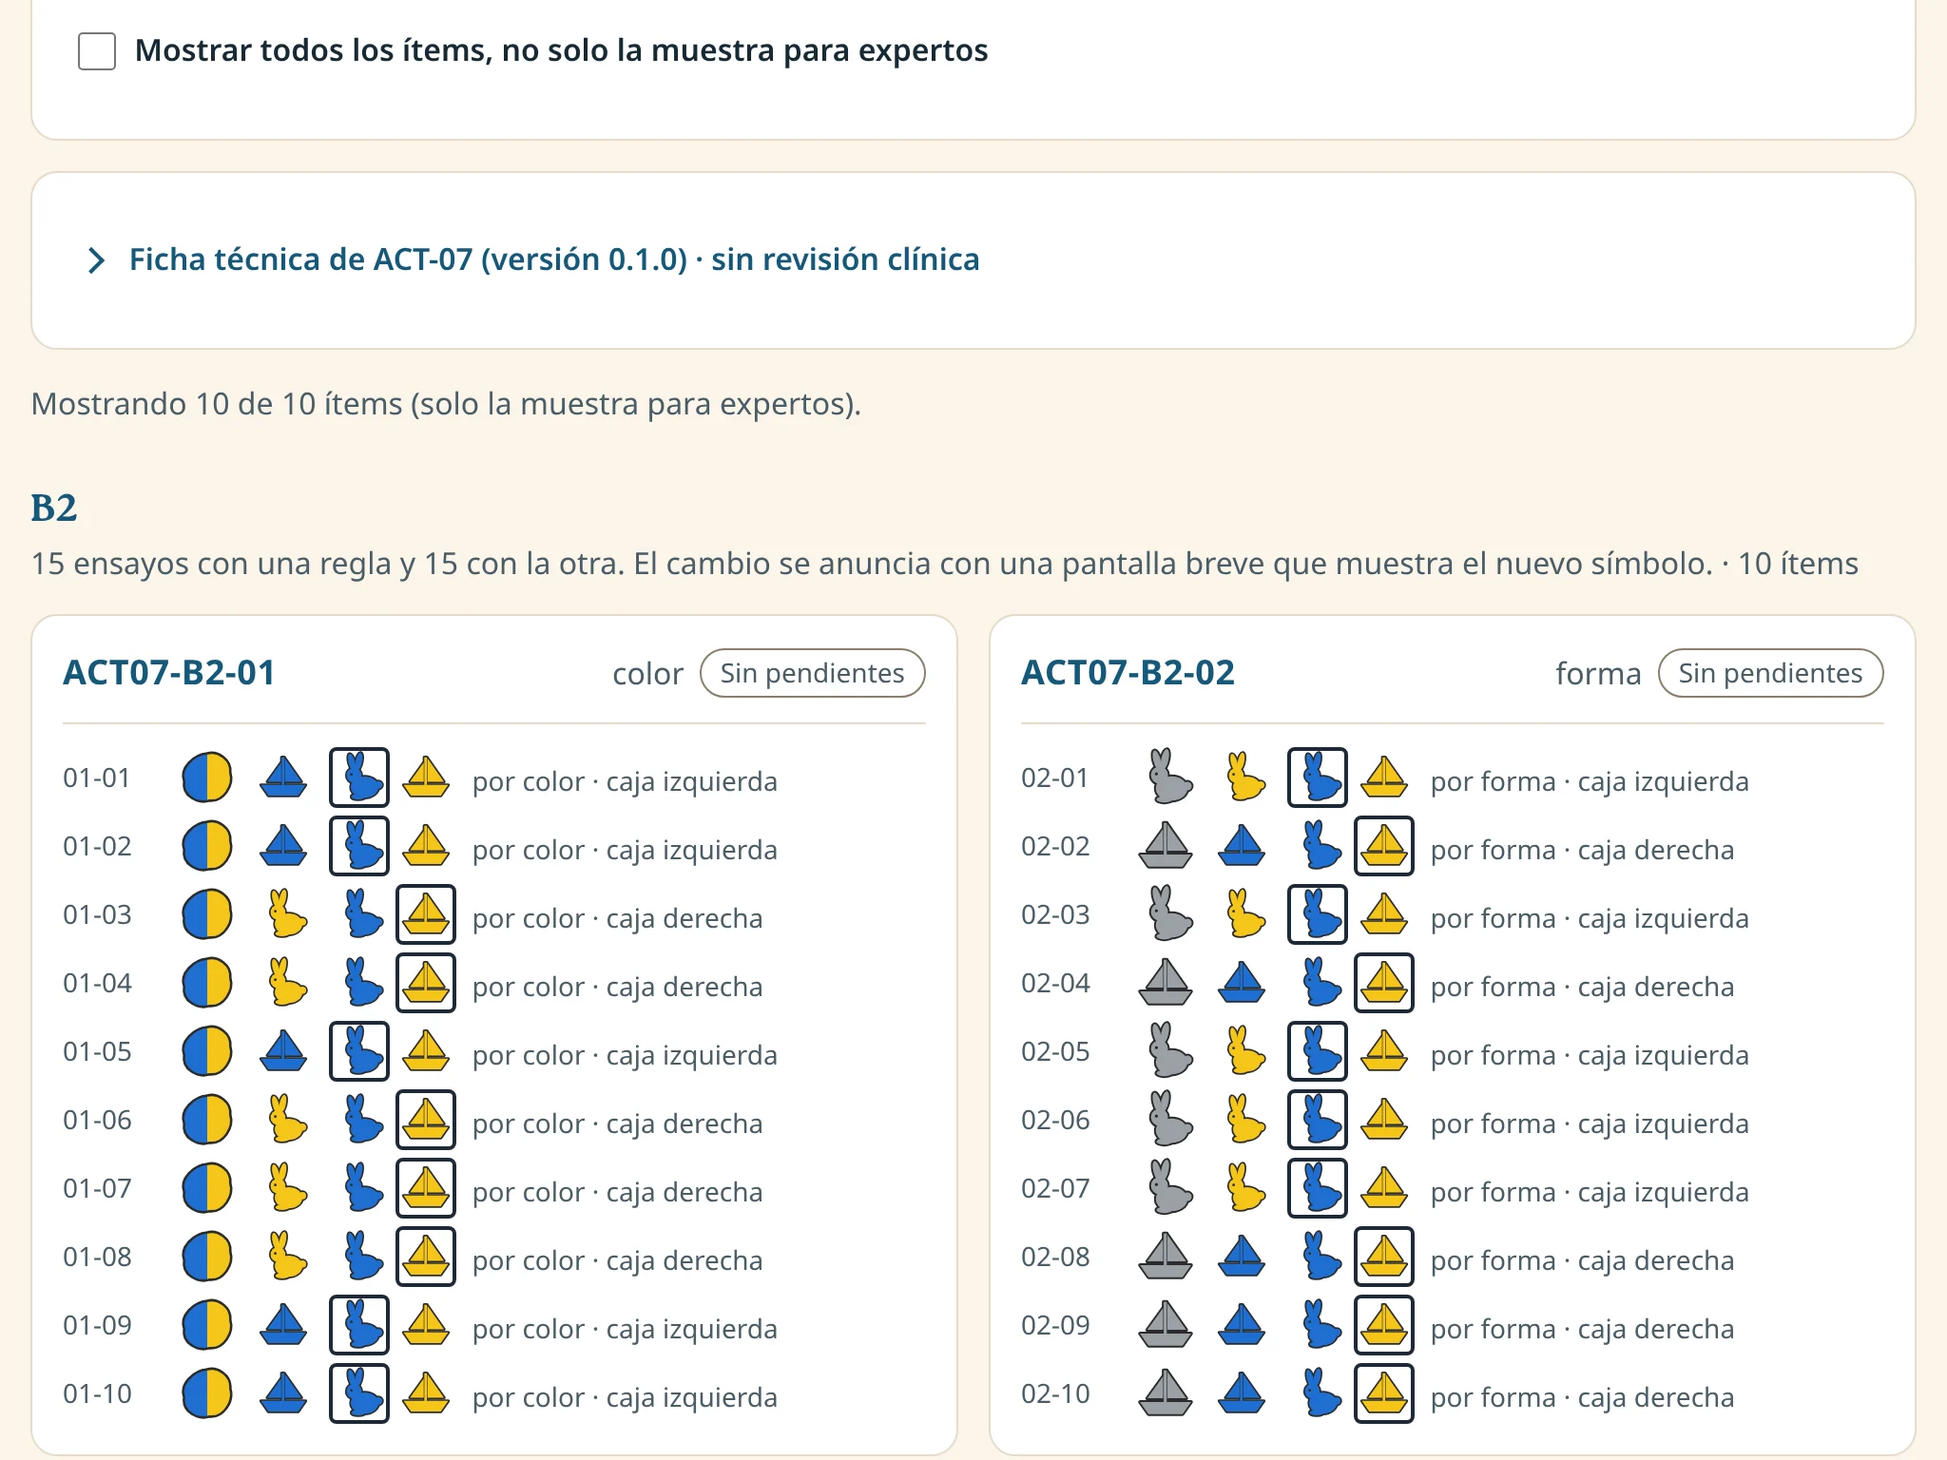
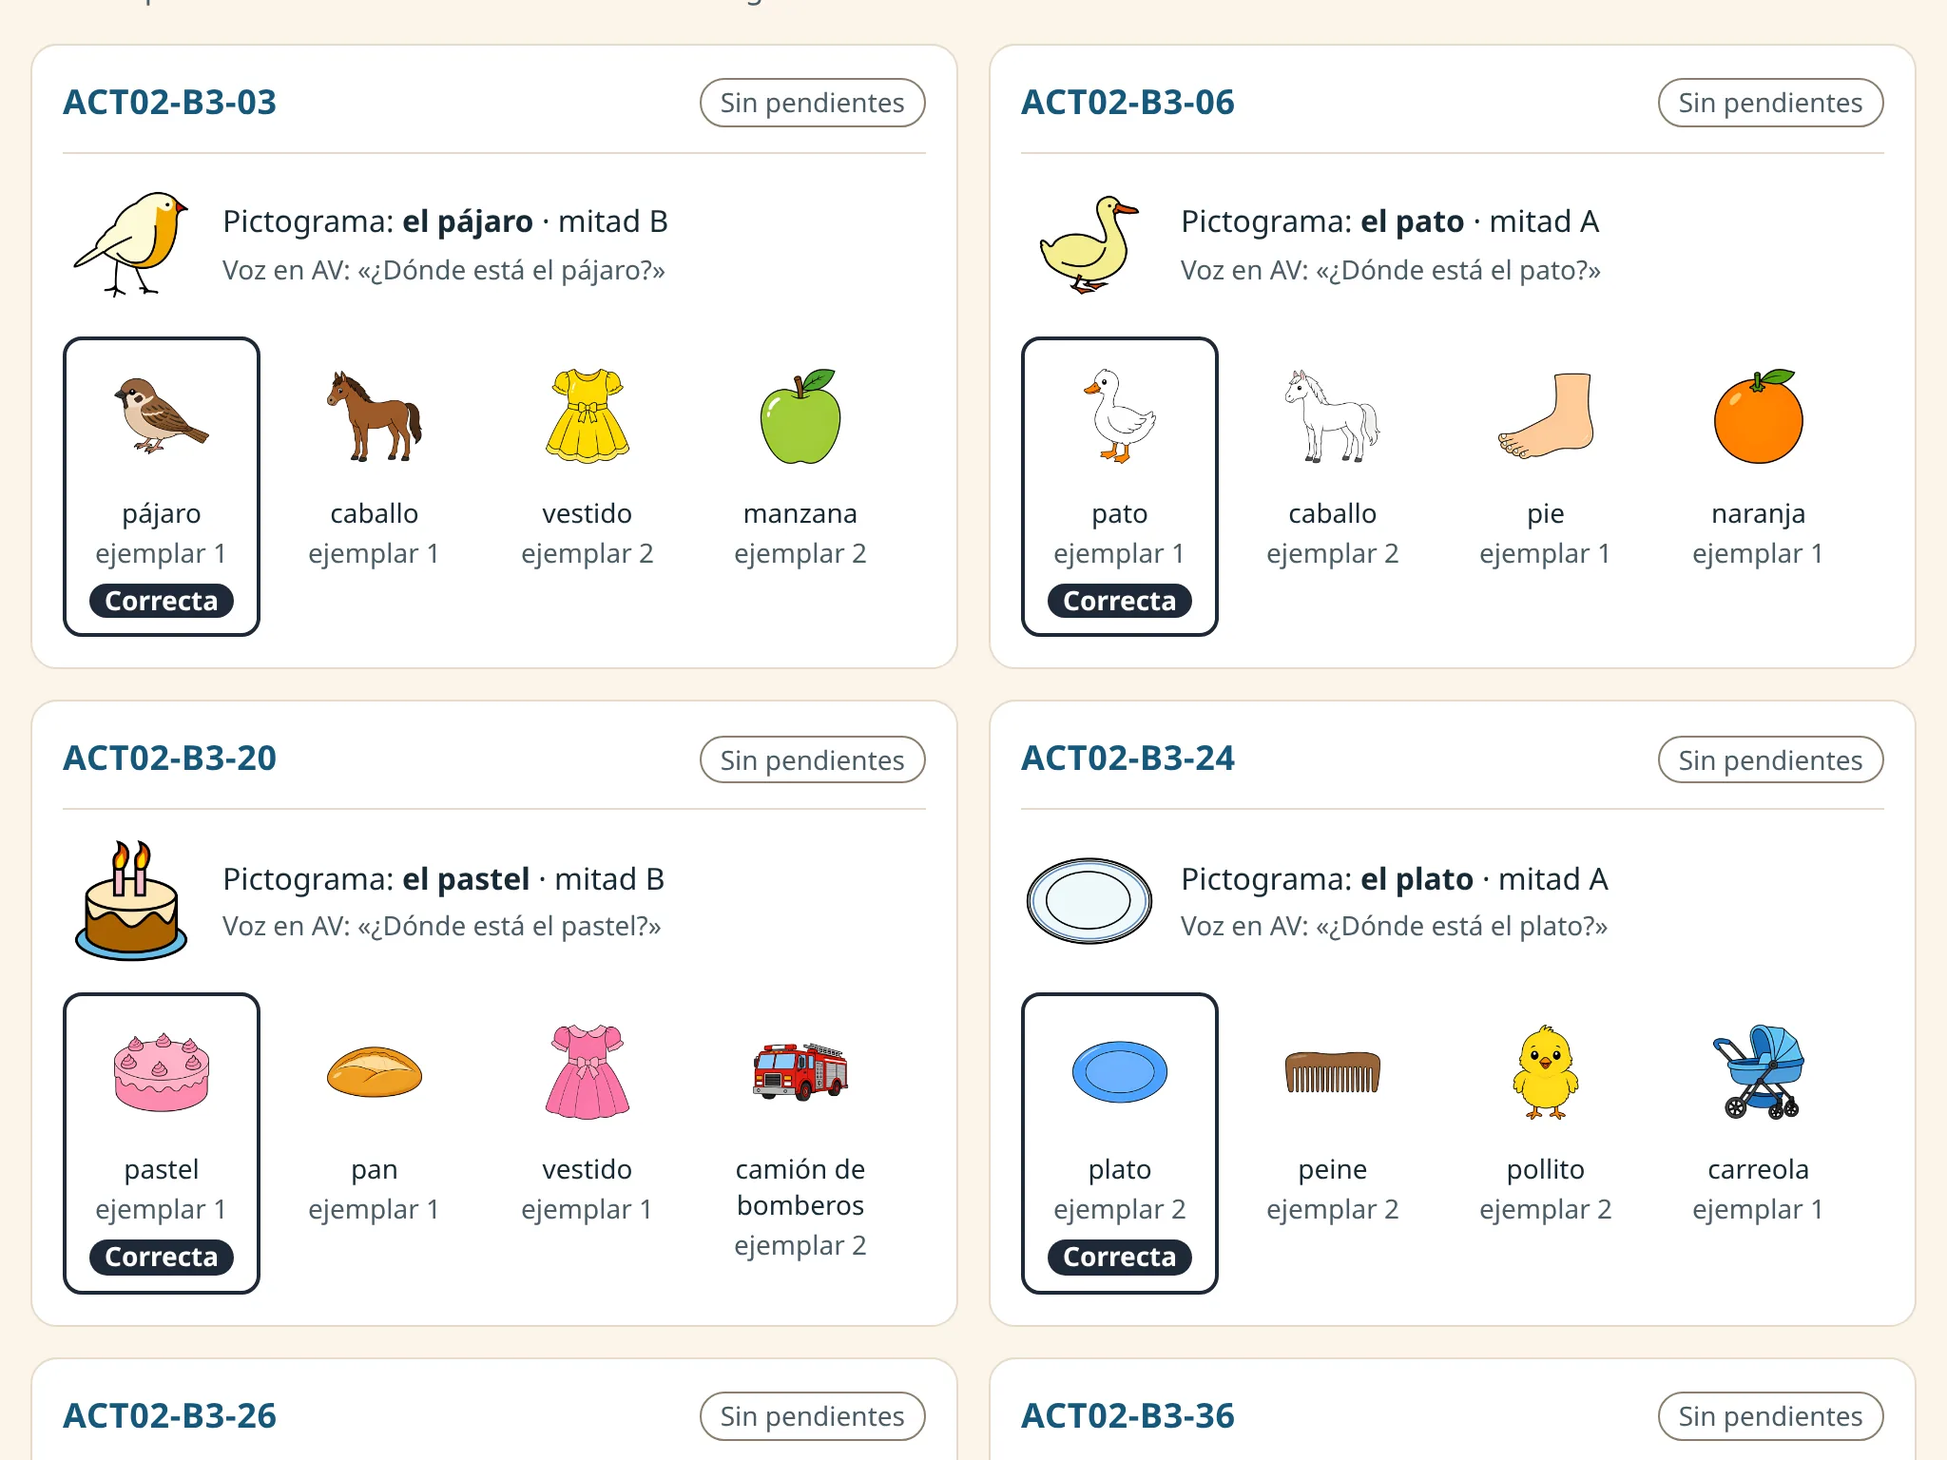
Muestra los dibujos del banco en la página de producto
- La sección de bandas usa el ítem del tren de cada banda tal como está
  en items.json: el pictograma arriba y los dibujos abajo, de B1 a B4.
- Nueva captura de la galería: Pictograma e imagen, banda B3, con los
  dibujos (9 de noviembre). Su fila en licencias.csv lleva la licencia
  de ARASAAC, porque incluye sus pictogramas.
- Textos y nota 2: cómo se hicieron los 180 dibujos y por qué son
  dibujos (así son los estímulos de las libretas). Pictograma e imagen
  pasa del pictograma a un dibujo del mismo concepto.
- Prueba nueva: la pantalla de las bandas usa el ítem del tren de
  items.json (100 pruebas).

Claude-Session: https://claude.ai/code/session_01YFZtU3qLhKNTPGUUqX3szs

diff --git a/pagina-producto/index.html b/pagina-producto/index.html
@@ -206,7 +206,7 @@
               <h3>Pictograma e imagen</h3>
               <dl>
                 <div><dt>Objetivo</dt><dd data-ficha="ACT-02.objetivo">Describir la identificación de conceptos de vocabulario temprano y su adquisición a lo largo de las sesiones.</dd></div>
-                <div><dt>Paradigma</dt><dd>En V, del pictograma a un ejemplar real. En AV, la palabra hablada más el pictograma, a un ejemplar.</dd></div>
+                <div><dt>Paradigma</dt><dd>En V, del pictograma a un dibujo del mismo concepto. En AV, la palabra hablada más el pictograma, a un ejemplar.</dd></div>
                 <div><dt>Consigna en voz</dt><dd>«¿Dónde está…?» o «¿Dónde están…?», con el nombre del concepto.</dd></div>
               </dl>
             </article>
@@ -346,18 +346,18 @@
           </div>
           <div>
             <div class="tableta">
-              <div class="esquema" data-esquema data-n="4" role="img" aria-label="Esquema de la pantalla del niño: el pictograma de un tren arriba y cuatro fotografías abajo.">
+              <div class="esquema" data-esquema data-n="4" role="img" aria-label="Pantalla del niño en Pictograma e imagen, banda B3: el pictograma de un tren arriba y cuatro imágenes abajo." data-banda-b1="tren/2 almohada/1" data-banda-b2="vaca/2 tren/2 cabeza/2" data-banda-b3="barco/2 tren/2 plato/1 conejo/1" data-banda-b4="moto/1 avion/2 tren/2 boca/2">
                 <span class="esquema__pausa" aria-hidden="true"><span></span><span></span></span>
                 <div class="esquema__muestra"><img src="../assets/picto/tren.png" alt="" width="500" height="500" /></div>
                 <div class="esquema__opciones">
-                  <div class="esquema__opcion"><svg viewBox="0 0 24 24" class="trazo" aria-hidden="true"><rect x="3.5" y="5" width="17" height="14" rx="2" /><circle cx="9" cy="10" r="1.6" /><path d="M4 17l5-4.5 3.5 3 3-2.5 4.5 4" /></svg></div>
-                  <div class="esquema__opcion"><svg viewBox="0 0 24 24" class="trazo" aria-hidden="true"><rect x="3.5" y="5" width="17" height="14" rx="2" /><circle cx="9" cy="10" r="1.6" /><path d="M4 17l5-4.5 3.5 3 3-2.5 4.5 4" /></svg></div>
-                  <div class="esquema__opcion"><svg viewBox="0 0 24 24" class="trazo" aria-hidden="true"><rect x="3.5" y="5" width="17" height="14" rx="2" /><circle cx="9" cy="10" r="1.6" /><path d="M4 17l5-4.5 3.5 3 3-2.5 4.5 4" /></svg></div>
-                  <div class="esquema__opcion"><svg viewBox="0 0 24 24" class="trazo" aria-hidden="true"><rect x="3.5" y="5" width="17" height="14" rx="2" /><circle cx="9" cy="10" r="1.6" /><path d="M4 17l5-4.5 3.5 3 3-2.5 4.5 4" /></svg></div>
+                  <div class="esquema__opcion"><img src="../assets/img/barco/2.jpg" alt="" width="1000" height="1000" loading="lazy" decoding="async" /></div>
+                  <div class="esquema__opcion"><img src="../assets/img/tren/2.jpg" alt="" width="1000" height="1000" loading="lazy" decoding="async" /></div>
+                  <div class="esquema__opcion"><img src="../assets/img/plato/1.jpg" alt="" width="1000" height="1000" loading="lazy" decoding="async" /></div>
+                  <div class="esquema__opcion"><img src="../assets/img/conejo/1.jpg" alt="" width="1000" height="1000" loading="lazy" decoding="async" /></div>
                 </div>
               </div>
             </div>
-            <p class="pie-figura">Esquema de la pantalla del niño. Arriba, el pictograma;<sup>8</sup> abajo, las fotografías.<sup>2</sup></p>
+            <p class="pie-figura">La pantalla del niño con el ítem del tren de cada banda, tal como está en el banco. Arriba, el pictograma;<sup>8</sup> abajo, los dibujos.<sup>2</sup></p>
           </div>
         </div>
       </section>
@@ -374,7 +374,7 @@
             <div class="tarjeta tarjeta--captura flotante">
               <h3>La galería, a la mano.</h3>
               <p>Cada ítem con su código, su consigna, sus opciones y la respuesta correcta marcada.</p>
-              <div class="tableta"><img src="../assets/pagina-producto/galeria.webp" alt="Galería de ítems de Cambia la regla, banda B2, con cada ítem en una fila con su símbolo, sus figuras y la caja correcta marcada." width="2048" height="1536" loading="lazy" /></div>
+              <div class="tableta"><img src="../assets/pagina-producto/galeria.webp" alt="Galería de ítems de Pictograma e imagen, banda B3: cada ítem con su código, su pictograma, sus cuatro imágenes y la correcta marcada." width="2048" height="1536" loading="lazy" /></div>
             </div>
           </div>
           <div class="rejilla rejilla--seguida aparece">
@@ -806,7 +806,7 @@
             <div class="tarjeta tarjeta--compacta flotante">
               <span class="icono icono--chico" aria-hidden="true"><svg viewBox="0 0 24 24" class="trazo"><rect x="3.5" y="5" width="17" height="14" rx="2" /><circle cx="9" cy="10" r="1.6" /><path d="M4 17l5-4.5 3.5 3 3-2.5 4.5 4" /></svg></span>
               <p class="tarjeta__dato tarjeta__dato--grande">Imágenes con licencia.</p>
-              <p>Cada imagen tiene su fila en licencias.csv, y ninguna está hecha con inteligencia artificial.</p>
+              <p>Cada imagen tiene su fila en licencias.csv, que dice cómo se hizo: con IA, como variante o con código.</p>
             </div>
             <div class="tarjeta tarjeta--compacta flotante">
               <span class="icono icono--chico" aria-hidden="true"><svg viewBox="0 0 24 24" class="trazo"><path d="M12 21s-6.5-5.6-6.5-11a6.5 6.5 0 0 1 13 0c0 5.4-6.5 11-6.5 11z" /><circle cx="12" cy="10" r="2.3" /></svg></span>
@@ -854,7 +854,7 @@
               <p class="modelo__modalidades"><span>V</span><span>AV</span></p>
               <p class="etiqueta">ACT-02</p>
               <h3>Pictograma e imagen</h3>
-              <p>Del pictograma a la foto real. En AV, con la palabra hablada.</p>
+              <p>Del pictograma a otro ejemplar del concepto. En AV, con la palabra hablada.</p>
               <dl class="modelo__datos">
                 <div><dt>Ensayos</dt><dd><span data-ficha="ACT-02.ensayosPorBloque">30</span> por bloque</dd></div>
                 <div><dt>Bandas</dt><dd>B1 a B4</dd></div>
@@ -897,7 +897,7 @@
                 </thead>
                 <tbody>
                   <tr><th scope="row">Objetivo</th><td>Familiarizar al niño con la estructura del ensayo, con la mínima demanda de lenguaje.</td><td>Describir la identificación de conceptos de vocabulario temprano y su adquisición.</td><td>Describir el desempeño al clasificar por un criterio y al cambiarlo, y el costo del cambio.</td></tr>
-                  <tr><th scope="row">Paradigma</th><td>Emparejamiento con la muestra por identidad.</td><td>V: del pictograma a un ejemplar real. AV: palabra hablada más pictograma, a un ejemplar.</td><td>Cambio dimensional de tarjetas (Zelazo, 2006).</td></tr>
+                  <tr><th scope="row">Paradigma</th><td>Emparejamiento con la muestra por identidad.</td><td>V: del pictograma a un dibujo del mismo concepto. AV: palabra hablada más pictograma, a un ejemplar.</td><td>Cambio dimensional de tarjetas (Zelazo, 2006).</td></tr>
                   <tr><th scope="row">Fases</th><td>Familiarización.</td><td>1, 2, 3 y cierre.</td><td>1, 2, 3 y cierre.</td></tr>
                   <tr><th scope="row">Ensayos por bloque</th><td data-ficha="ACT-01.ensayosPorBloque">10</td><td data-ficha="ACT-02.ensayosPorBloque">30</td><td data-ficha="ACT-07.ensayosPorBloque">30</td></tr>
                   <tr><th scope="row">Bandas</th><td>B1 a B3</td><td>B1 a B4</td><td>B1 a B4</td></tr>
@@ -924,7 +924,7 @@
           <div class="rejilla bloque aparece izquierda" style="--min: 280px">
             <div class="tarjeta"><p class="cifra cifra--grande">5.8 : 1</p><p>Es el contraste más bajo entre 3,708 textos revisados en tema claro y oscuro. El mínimo que se pide es 4.5 a 1.<sup>7</sup></p></div>
             <div class="tarjeta"><p class="cifra cifra--grande">44 px</p><p>Es lo mínimo que mide cada botón y enlace de las pantallas del adulto, con 8 px entre ellos.</p></div>
-            <div class="tarjeta"><p class="cifra cifra--grande">0</p><p>Imágenes hechas o editadas con inteligencia artificial. Y nunca verde ni rojo para decir si una respuesta fue correcta.</p></div>
+            <div class="tarjeta"><p class="cifra cifra--grande">180</p><p>Dibujos en el banco, todos con el mismo estilo: el objeto completo, al centro, con contorno negro y sobre fondo blanco. Y nunca verde ni rojo para decir si una respuesta fue correcta.<sup>2</sup></p></div>
           </div>
         </div>
       </section>
@@ -957,7 +957,7 @@
       <div class="contenedor">
         <ol class="pie__notas">
           <li>AutiPal es un prototipo en fase de pruebas (encargo E13, versión 0.1.0). No es un dispositivo médico: no diagnostica, no fija objetivos por sí mismo y no sustituye la valoración ni la terapia. Las decisiones son del profesional.</li>
-          <li>Las capturas son del prototipo real, tomadas el 6 de noviembre de 2026 con datos de demostración. En Igual a la muestra y Pictograma e imagen, las fotografías todavía son marcadores provisionales; las fotos reales, con licencia libre y sin inteligencia artificial, están en preparación.</li>
+          <li>Las capturas son del prototipo real, con datos de demostración, tomadas el 6 de noviembre de 2026; la de la galería, el 9 de noviembre. Los 180 dibujos del banco se hicieron para este prototipo en el estilo de los dibujos de las libretas de estímulos: 134 con inteligencia artificial en Canva, 44 como variantes sin IA de esos dibujos y 2 con código. Todos son originales, no copian láminas de ninguna prueba ni muestran a personas reales, y esperan revisión clínica. Son dibujos, no fotografías, porque así son los estímulos de las libretas: un solo objeto, claro y sin detalles que distraigan.</li>
           <li>El registro guarda los tiempos con resolución de 0.1 ms. La exactitud de cada medida depende de la pantalla, del navegador y del dispositivo; por eso la latencia del dispositivo tiene su propia columna, que se llena cuando se mide.</li>
           <li>Las funciones marcadas «En diseño» son parte del diseño documentado de Neuro-BlueMinds y aún no están en el prototipo. Todavía no hay datos de participantes: la fiabilidad y la validez se medirán con 24 niños en 2027, bajo el marco V3.</li>
           <li>C&amp;W está en desarrollo y todavía no mide. El costo es la suma aproximada de sus cuatro componentes principales, sin batería, carcasa ni motor.</li>

diff --git a/pagina-producto/pagina.test.js b/pagina-producto/pagina.test.js
@@ -3,6 +3,7 @@
 // - El muro de columnas es el registro de src/engine/logger.js, en el mismo orden.
 // - No carga nada de servidores externos y todo archivo local que usa existe.
 // - Respeta las reglas de movimiento del prototipo.
+// - La pantalla del niño de la sección de bandas usa los ítems reales del banco.
 import { test } from 'node:test';
 import assert from 'node:assert/strict';
 import { readFileSync, existsSync } from 'node:fs';
@@ -68,4 +69,16 @@ test('la página de producto respeta las reglas de movimiento', () => {
   for (const d of duraciones) assert.ok(d >= 200 && d <= 300, `transición de ${d} ms`);
   assert.doesNotMatch(css, /transition\s*:[^;]*\d(\.\d+)?s\b/, 'duraciones en ms');
   assert.match(css, /prefers-reduced-motion:\s*reduce/);
+});
+
+test('la pantalla de las bandas usa el ítem del tren de items.json', () => {
+  const { items } = JSON.parse(leer('../items/items.json'));
+  for (const banda of ['B1', 'B2', 'B3', 'B4']) {
+    const marca = html.match(new RegExp(`data-banda-${banda.toLowerCase()}="([^"]+)"`));
+    assert.ok(marca, `falta data-banda-${banda.toLowerCase()}`);
+    const item = items.find((i) => i.actividad === 'ACT-02' && i.banda === banda && i.concepto === 'tren');
+    const esperadas = item.opciones.map((o) => `${o.concepto}/${o.ejemplar}`).sort();
+    assert.deepEqual(marca[1].split(' ').sort(), esperadas, banda);
+    for (const o of esperadas) assert.ok(existsSync(new URL(`../assets/img/${o}.jpg`, import.meta.url)), o);
+  }
 });

diff --git a/pagina-producto/pagina.js b/pagina-producto/pagina.js
@@ -25,14 +25,18 @@ function selector(nombre, alCambiar = () => {}) {
 selector('actividad');
 selector('rol');
 
-// Bandas: el esquema de la pantalla del niño muestra tantas opciones como la banda.
+// Bandas: la pantalla del niño muestra el ítem del tren de cada banda, con sus opciones del banco.
 const esquema = document.querySelector('[data-esquema]');
 const NUMEROS = { 2: 'dos', 3: 'tres', 4: 'cuatro' };
 selector('banda', (valor, boton) => {
   if (!esquema) return;
   const n = boton.dataset.opciones;
   esquema.dataset.n = n;
-  esquema.setAttribute('aria-label', `Esquema de la pantalla del niño en ${valor}: el pictograma de un tren arriba y ${NUMEROS[n]} fotografías abajo.`);
+  const opciones = (esquema.dataset[`banda${valor}`] ?? '').split(' ').filter(Boolean);
+  esquema.querySelectorAll('.esquema__opcion img').forEach((img, i) => {
+    if (opciones[i]) img.src = `../assets/img/${opciones[i]}.jpg`;
+  });
+  esquema.setAttribute('aria-label', `Pantalla del niño en Pictograma e imagen, banda ${valor}: el pictograma de un tren arriba y ${NUMEROS[n]} imágenes abajo.`);
 });
 
 // Visor de diseño: pantalla del niño o del adulto, en tema claro u oscuro.

diff --git a/pagina-producto/pagina.css b/pagina-producto/pagina.css
@@ -1622,6 +1622,7 @@ details[open] > summary .mas svg {
 
 .esquema__opcion {
   display: flex;
+  overflow: hidden;
   width: 14.7%;
   aspect-ratio: 1;
   align-items: center;
@@ -1631,10 +1632,11 @@ details[open] > summary .mas svg {
   color: var(--glifo);
 }
 
-.esquema__opcion svg {
-  width: 46%;
-  height: 46%;
-  stroke-width: 1.6;
+.esquema__opcion img {
+  width: 100%;
+  height: 100%;
+  border-radius: inherit;
+  object-fit: contain;
 }
 
 .esquema[data-n='2'] .esquema__opcion:nth-child(n + 3),

diff --git a/README.md b/README.md
@@ -154,7 +154,7 @@ npm test
 - los requisitos de tamaño y movimiento de la hoja de estilos;
 - fuera de tarea y la frecuencia de la pantalla;
 - la exportación de la revisión clínica y la regla para unir revisiones;
-- la página de producto (`pagina-producto/pagina.test.js`): que sus números coincidan con las fichas y con las columnas del registro, que no cargue nada de servidores externos y que respete las reglas de movimiento.
+- la página de producto (`pagina-producto/pagina.test.js`): que sus números coincidan con las fichas y con las columnas del registro, que no cargue nada de servidores externos, que respete las reglas de movimiento y que la pantalla de las bandas use los ítems del banco.
 
 Antes de publicar, corre también `npm run check-items`.
 
@@ -520,7 +520,7 @@ La interfaz sigue el Manual de marca de AutiPal. Hay dos tipos de pantalla y la 
 - **Sin JavaScript** la página se lee completa. El script solo agrega los selectores, el carrusel, el recorrido paso a paso y las apariciones al desplazarse. Nada se mueve solo si el sistema pide reducir el movimiento.
 - **Datos que no se escriben a mano:** cada número que viene de una ficha lleva `data-ficha="ACT-02.ensayosPorBloque"` (o `data-ficha-s` para milisegundos mostrados en segundos, y `data-ficha-pct` para proporciones). `npm test` revisa que coincidan con `fichas/` y que el muro de columnas sea el de `src/engine/logger.js`. Si cambia una ficha, la prueba dice qué dato de la página actualizar.
 - **Lo que todavía no existe va marcado:** las funciones del diseño de Neuro-BlueMinds que no están en el prototipo dicen «En diseño», y C&W aparece como reloj en desarrollo. Las notas al pie lo aclaran.
-- **Capturas:** son del prototipo del 6 de noviembre de 2026, con datos de demostración. Cuando lleguen las fotografías reales, conviene repetirlas para mostrar Igual a la muestra y Pictograma e imagen.
+- **Capturas e imágenes:** las capturas son del prototipo, con datos de demostración (6 de noviembre de 2026; la galería, 9 de noviembre). La sección de bandas muestra el ítem del tren de cada banda con los dibujos del banco, y `npm test` revisa que coincida con `items/items.json`. Si cambian las imágenes del banco, hay que repetir la captura de la galería.
 
 ## Publicación en GitHub Pages
 
